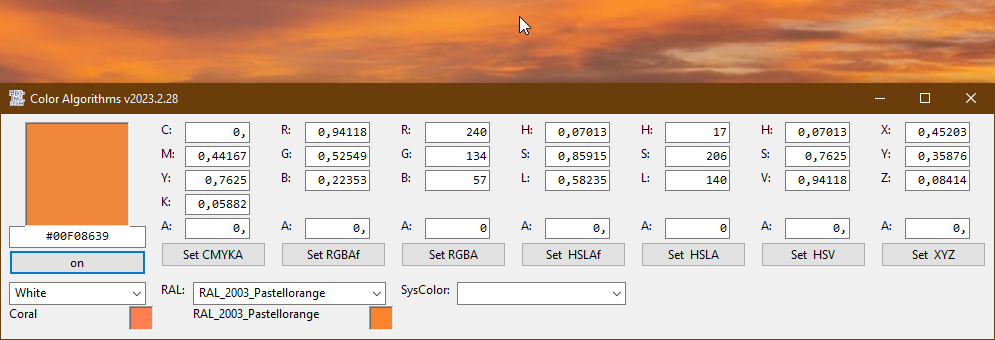
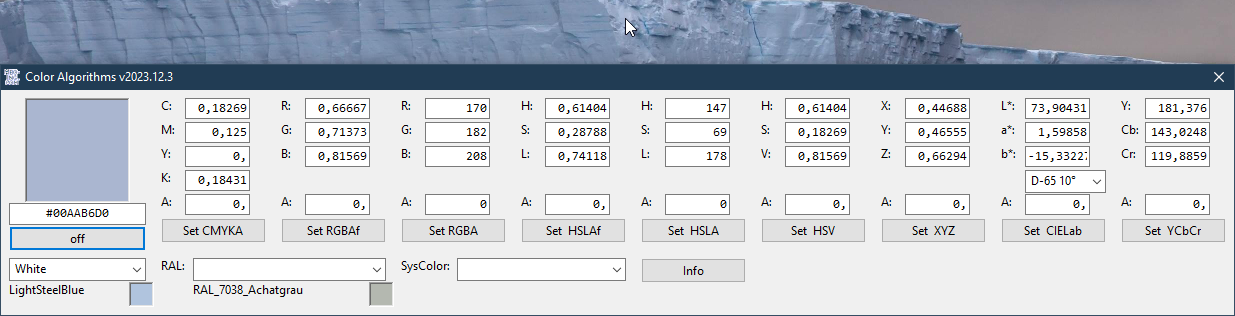
added CieLab and YCbCr

diff --git a/README.md b/README.md
@@ -3,13 +3,13 @@
 
 [![GitHub](https://img.shields.io/github/license/OlimilO1402/Color_Algorithms?style=plastic)](https://github.com/OlimilO1402/Color_Algorithms/blob/master/LICENSE) 
 [![GitHub release (latest by date)](https://img.shields.io/github/v/release/OlimilO1402/Color_Algorithms?style=plastic)](https://github.com/OlimilO1402/Color_Algorithms/releases/latest)
-[![Github All Releases](https://img.shields.io/github/downloads/OlimilO1402/Color_Algorithms/total.svg)](https://github.com/OlimilO1402/Color_Algorithms/releases/download/v2023.3.1/ColorAlgos_v2023.3.1.zip)
+[![Github All Releases](https://img.shields.io/github/downloads/OlimilO1402/Color_Algorithms/total.svg)](https://github.com/OlimilO1402/Color_Algorithms/releases/download/v2023.12.3/ColorAlgos_v2023.12.3.zip)
 ![GitHub followers](https://img.shields.io/github/followers/OlimilO1402?style=social)
 
 Project started around mid.2017.  
 This is a collection of different algorithms for encoding color-values.  
-RGB, RGB-float, CMYK, HSL, HSV, XYZ and alpha channel for transparency.  
-X11-knowncolors, RAL-classic colors and Systemcolors are also included.  
+RGB, RGB-float, CMYK, HSL, HSV, XYZ, CieLab, YCbCr and alpha channel for transparency.  
+all X11-knowncolors, all RAL-classic colors and Systemcolors are also included.  
 How to select a color from your screen:
 * click the button on/off and move your mouse over the screen (don't click)  
 * now pressing the enter-key on your keyboard activates the on/off-button again and gets the color selected.  
